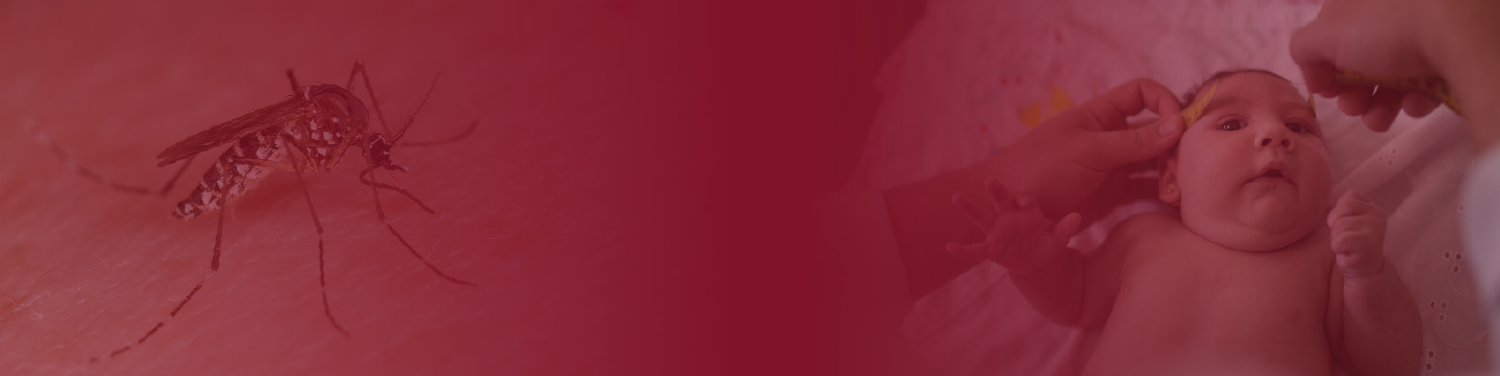
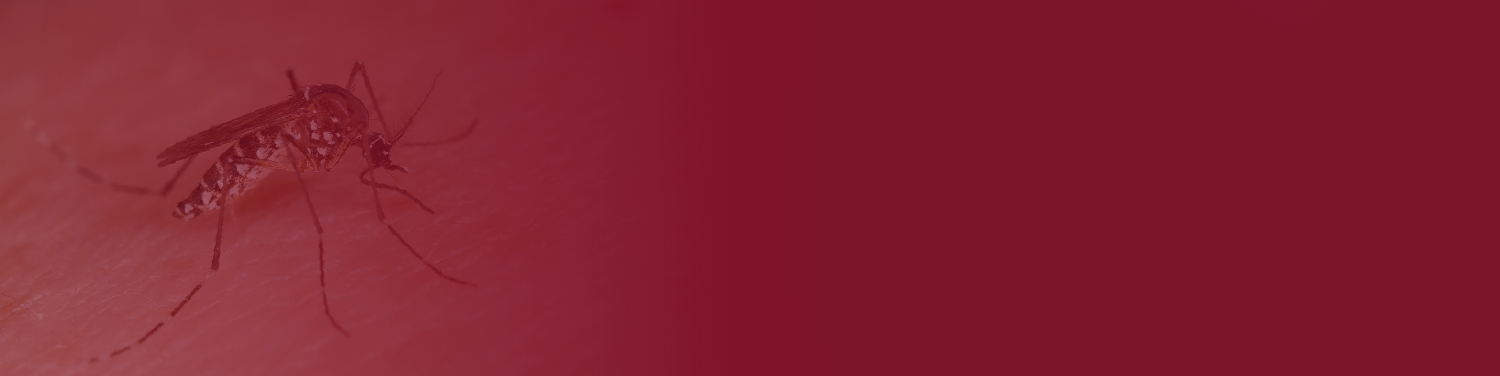
Revise images.

Changed region(s): [[0.6133, 0.0, 1.0, 1.0], [0.644, 0.7899, 0.7053, 0.9069], [0.644, 0.7021, 0.6747, 0.7606]]

diff --git a/index.html b/index.html
@@ -208,7 +208,7 @@
 						</li>
 						<li>
 							<div class="timeline-image">
-								<img src="./assets/images/2016-sexual-travel-cases.jpg" alt="zika test tube" class="scale-with-grid">
+								<!-- <img src="" alt="" class="scale-with-grid"> -->
 							</div>
 							<span class="year">2 Feb 2016</span>
 							<div class="description">
